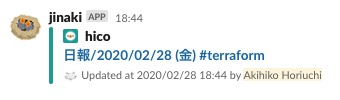
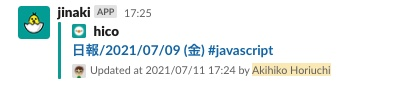
:memo: Update README

Changed region(s): [[0.0294, 0.03, 0.9706, 0.84]]

diff --git a/README.md b/README.md
@@ -1,4 +1,4 @@
-## :bird: jinaki
+## :hatching_chick: jinaki
 
 [![CI](https://github.com/hico-horiuchi/jinaki/actions/workflows/ci.yaml/badge.svg)](https://github.com/hico-horiuchi/jinaki/actions/workflows/ci.yaml)
 
@@ -10,6 +10,10 @@
 
 ### How to use
 
-See [dev/esa/webhooks/generic - docs.esa.io](https://docs.esa.io/posts/37)
+See [dev/esa/webhooks/generic](https://docs.esa.io/posts/37) and [dev/esa/api/v1](https://docs.esa.io/posts/102)
 
 ![esa_webhook_setting.jpg](https://raw.githubusercontent.com/hico-horiuchi/jinaki/master/esa_webhook_setting.jpg)
+
+### References
+
+- [OpenMoji](https://openmoji.org/)
